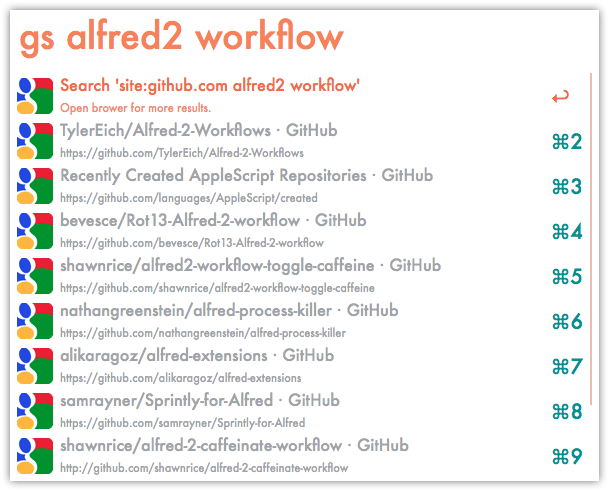
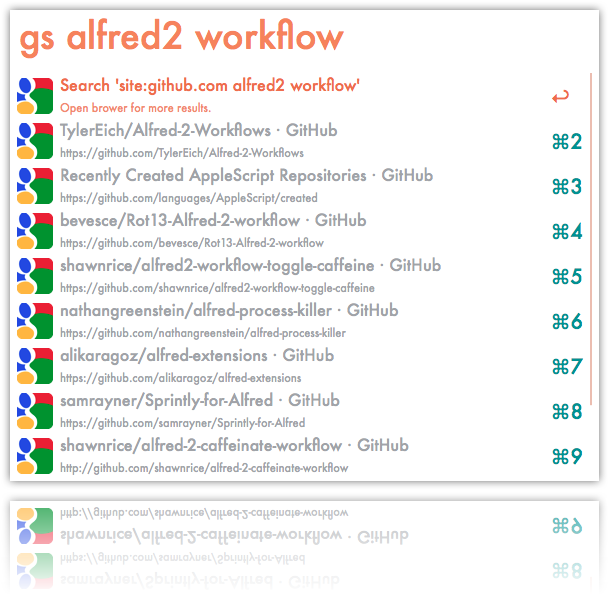
[Log]( site search screenshot )

Changed region(s): [[0.0, 0.0, 0.9984, 1.0], [0.9048, 0.1527, 0.9672, 0.336], [0.9048, 0.3666, 0.9672, 0.4888]]

diff --git a/README.md b/README.md
@@ -21,8 +21,12 @@ Keyword `gs`: get instant google search results of front browser's site in Alfre
 
 Supported browsers are: Safari, Google Chrome, Opera, OmniWeb, etc.
 
-
 You can use `site:example.com query` if you do not want to search for current front browser's site.
+
+For example, open safari with **github.com**, type `gs alfred2 workflow` to find related projects hosted in github.
+
+![site search](https://raw.github.com/zhaocai/alfred2-google-workflow/master/screenshots/site_search.png)
+
 
 ### 4. Related Search
 
